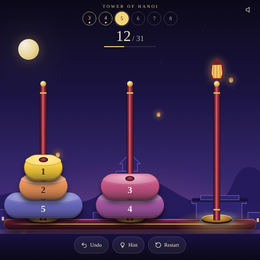
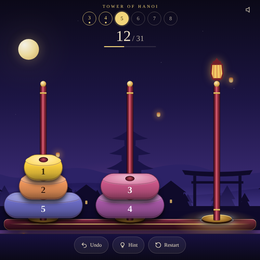
Tower of Hanoi: redraw the skyline as a real village
The old background was a few stray boxes (and the middle one looked broken). It is now three depth
layers with a pagoda as the landmark, a torii, pitched-roof houses, pines and mist, centred so the
phone crop keeps it, with small lit windows that no longer peek out from behind the base.

Claude-Session: https://claude.ai/code/session_016v15ucP2T6zEZ4FJg5VXMC

diff --git a/games/tower_of_hanoi.html b/games/tower_of_hanoi.html
@@ -13,7 +13,7 @@ html,body{height:100%;background:var(--ink);color:var(--paper);font-family:"Iowa
 #app{height:100%;height:100dvh;display:flex;flex-direction:column;position:relative;overflow:hidden;background:radial-gradient(70% 38% at 50% 88%,#9a4a7a66 0%,#0000 70%),linear-gradient(#0b0918 0%,#1c1544 38%,#3a2a73 72%,#6a3f86 100%);user-select:none;-webkit-user-select:none}
 .stars{position:absolute;inset:0;background-image:radial-gradient(1.5px 1.5px at 12% 18%,#fff9,#0000),radial-gradient(1px 1px at 78% 12%,#fff8,#0000),radial-gradient(1.5px 1.5px at 90% 34%,#fff7,#0000),radial-gradient(1px 1px at 30% 8%,#fff8,#0000),radial-gradient(1px 1px at 6% 44%,#fff6,#0000),radial-gradient(1.5px 1.5px at 62% 24%,#fff6,#0000)}
 .moon{position:absolute;left:7%;top:max(15%,118px);width:clamp(46px,8vmin,84px);aspect-ratio:1;border-radius:50%;background:radial-gradient(circle at 30% 28%,#fffdf0,#f6e3a1 52%,#d9b765);box-shadow:0 0 30px 8px #f2d57a30,0 0 120px 40px #f2d57a14;opacity:.95;pointer-events:none}
-.temple{position:absolute;left:0;right:0;bottom:92px;height:34%;opacity:.95;pointer-events:none;width:100%}
+.temple{position:absolute;left:0;right:0;bottom:92px;height:42%;pointer-events:none;width:100%}
 .fly{position:absolute;bottom:-30px;width:var(--s);height:calc(var(--s)*1.25);border-radius:30% 30% 40% 40%;background:radial-gradient(circle at 50% 70%,#fff3b0,#ffb84a 55%,#c0432a);box-shadow:0 0 calc(var(--s)*1.4) calc(var(--s)*.5) #ffb84a66;opacity:0;pointer-events:none;animation:fly var(--d) linear infinite;animation-delay:var(--w)}
 @keyframes fly{0%{transform:translate(0,0);opacity:0}12%{opacity:.85}85%{opacity:.7}100%{transform:translate(var(--x),-92vh);opacity:0}}
 .mist{position:absolute;left:0;right:0;bottom:92px;height:120px;background:linear-gradient(#0000,#5a4aa855 65%,#0000);pointer-events:none}
@@ -111,15 +111,7 @@ header{position:relative;display:flex;flex-direction:column;align-items:center;g
 <div class="stars"></div><div class="moon"></div>
 <i class="fly" style="left:8%;--s:9px;--d:34s;--w:-4s;--x:30px"></i><i class="fly" style="left:23%;--s:12px;--d:44s;--w:-20s;--x:-26px"></i><i class="fly" style="left:41%;--s:7px;--d:38s;--w:-12s;--x:18px"></i><i class="fly" style="left:63%;--s:11px;--d:48s;--w:-30s;--x:-34px"></i><i class="fly" style="left:78%;--s:8px;--d:36s;--w:-8s;--x:22px"></i><i class="fly" style="left:90%;--s:13px;--d:52s;--w:-40s;--x:-20px"></i>
 <div class="mist"></div>
-<svg class="temple" viewBox="0 0 400 120" preserveAspectRatio="xMidYMax slice" aria-hidden="true">
-<path d="M0 120V84q40-26 90-8t80-14 90 6 80-12 60 14v50z" fill="#241a5a"/>
-<g fill="#2e2470" stroke="#7a68c8" stroke-width=".7">
-<path d="M20 120V92h30V120z"/><path d="M92 120V88h-6l14-9 14 9h-6V120z"/>
-<path d="M150 120V96h8l-2-6 4-3h60l4 3-2 6h8V120z"/>
-<path d="M168 90V74h-10q12-3 16-12h22q4 9 16 12h-10V90z"/><path d="M178 62V50h-8q10-3 12-10h16q2 7 12 10h-8V62z"/><path d="M190 40V30h-4l14-14 14 14h-4V40z"/>
-<path d="M290 120V84h-6v-5h74v5h-6V120z"/><path d="M286 79h72" stroke="#18113a" stroke-width="5" stroke-linecap="round"/><path d="M296 79v-6h52v6z"/>
-<path d="M360 120V96h30v24z"/></g>
-<g fill="#ffcf70"><rect x="193" y="104" width="3" height="5"/><rect x="204" y="104" width="3" height="5"/><rect x="198" y="66" width="3" height="4"/><rect x="100" y="100" width="3" height="5"/><rect x="372" y="104" width="3" height="5"/><rect x="26" y="102" width="3" height="5"/></g></svg>
+<svg class="temple" viewBox="0 0 800 200" preserveAspectRatio="xMidYMax slice" aria-hidden="true"><defs><linearGradient id="mistA" x1="0" y1="0" x2="0" y2="1"><stop offset="0" stop-color="#6a58c0" stop-opacity="0"/><stop offset="1" stop-color="#6a58c0" stop-opacity=".35"/></linearGradient><linearGradient id="mistB" x1="0" y1="0" x2="0" y2="1"><stop offset="0" stop-color="#7a68d0" stop-opacity="0"/><stop offset="1" stop-color="#7a68d0" stop-opacity=".28"/></linearGradient></defs><path d="M0 200V120C60 96 110 82 170 100S270 70 340 92 460 60 540 88 680 70 800 96V200Z" fill="#2c2266"/><path d="M0 200V150C80 128 140 140 220 124S360 110 450 130 620 112 700 126 780 120 800 124V200Z" fill="#231a5a"/><rect x="0" y="120" width="800" height="80" fill="url(#mistA)"/><rect x="357.5" y="154.5" width="85.0" height="7.5" fill="#1a1347"/><rect x="368.75" y="138.25" width="62.5" height="16.25" fill="#1a1347"/><path d="M346.2 142.0C358.8 139.5 368.8 132.0 377.5 125.8L422.5 125.8C431.2 132.0 441.2 139.5 453.8 142.0C437.5 147.0 362.5 147.0 346.2 142.0Z" fill="#1a1347"/><rect x="374.0" y="110.75" width="52.0" height="16.25" fill="#1a1347"/><path d="M351.5 114.5C364.0 112.0 374.0 104.5 382.8 98.2L417.2 98.2C426.0 104.5 436.0 112.0 448.5 114.5C432.2 119.5 367.8 119.5 351.5 114.5Z" fill="#1a1347"/><rect x="379.25" y="83.25" width="41.5" height="16.25" fill="#1a1347"/><path d="M356.8 87.0C369.2 84.5 379.2 77.0 388.0 70.8L412.0 70.8C420.8 77.0 430.8 84.5 443.2 87.0C427.0 92.0 373.0 92.0 356.8 87.0Z" fill="#1a1347"/><rect x="384.5" y="55.75" width="31.0" height="16.25" fill="#1a1347"/><path d="M362.0 59.5C374.5 57.0 384.5 49.5 393.2 43.2L406.8 43.2C415.5 49.5 425.5 57.0 438.0 59.5C421.8 64.5 378.2 64.5 362.0 59.5Z" fill="#1a1347"/><rect x="389.75" y="28.25" width="20.5" height="16.25" fill="#1a1347"/><path d="M367.2 32.0C379.8 29.5 389.8 22.0 398.5 15.8L401.5 15.8C410.2 22.0 420.2 29.5 432.8 32.0C416.5 37.0 383.5 37.0 367.2 32.0Z" fill="#1a1347"/><rect x="398.5" y="-15.5" width="3.0" height="35.0" fill="#1a1347"/><rect x="394.375" y="9.5" width="11.25" height="2.5" rx="1" fill="#1a1347"/><rect x="394.375" y="3.25" width="11.25" height="2.5" rx="1" fill="#1a1347"/><rect x="394.375" y="-3.0" width="11.25" height="2.5" rx="1" fill="#1a1347"/><rect x="394.375" y="-9.25" width="11.25" height="2.5" rx="1" fill="#1a1347"/><circle cx="400" cy="-18.0" r="2.75" fill="#1a1347"/><path d="M300 126L312.16 146.9L306.84 146.9L315.2 164L284.8 164L293.16 146.9L287.84 146.9Z" fill="#1a1347"/><path d="M318 134L327.6 150.5L323.4 150.5L330.0 164L306.0 164L312.6 150.5L308.4 150.5Z" fill="#1a1347"/><path d="M336 126L348.16 146.9L342.84 146.9L351.2 164L320.8 164L329.16 146.9L323.84 146.9Z" fill="#1a1347"/><path d="M470 118L484.72 143.3L478.28 143.3L488.4 164L451.6 164L461.72 143.3L455.28 143.3Z" fill="#1a1347"/><path d="M488 134L497.6 150.5L493.4 150.5L500.0 164L476.0 164L482.6 150.5L478.4 150.5Z" fill="#1a1347"/><path d="M506 134L515.6 150.5L511.4 150.5L518.0 164L494.0 164L500.6 150.5L496.4 150.5Z" fill="#1a1347"/><path d="M250 118L264.72 143.3L258.28 143.3L268.4 164L231.6 164L241.72 143.3L235.28 143.3Z" fill="#1a1347"/><path d="M268 134L277.6 150.5L273.4 150.5L280.0 164L256.0 164L262.6 150.5L258.4 150.5Z" fill="#1a1347"/><path d="M560 126L572.16 146.9L566.84 146.9L575.2 164L544.8 164L553.16 146.9L547.84 146.9Z" fill="#1a1347"/><path d="M578 118L592.72 143.3L586.28 143.3L596.4 164L559.6 164L569.72 143.3L563.28 143.3Z" fill="#1a1347"/><path d="M150 134L159.6 150.5L155.4 150.5L162.0 164L138.0 164L144.6 150.5L140.4 150.5Z" fill="#1a1347"/><path d="M170 118L184.72 143.3L178.28 143.3L188.4 164L151.6 164L161.72 143.3L155.28 143.3Z" fill="#1a1347"/><path d="M650 134L659.6 150.5L655.4 150.5L662.0 164L638.0 164L644.6 150.5L640.4 150.5Z" fill="#1a1347"/><path d="M668 134L677.6 150.5L673.4 150.5L680.0 164L656.0 164L662.6 150.5L658.4 150.5Z" fill="#1a1347"/><rect x="0" y="120" width="800" height="50" fill="url(#mistB)"/><rect x="515.8" y="100.2" width="5.44" height="57.8" fill="#0f0a2a"/><rect x="598.76" y="100.2" width="5.44" height="57.8" fill="#0f0a2a"/><path d="M500.49999999999994 98.5Q560 105.30000000000001 619.5 98.5L624.6 90.0Q560 96.80000000000001 495.4 90.0Z" fill="#0f0a2a"/><rect x="512.4" y="110.4" width="95.19999999999999" height="4.42" fill="#0f0a2a"/><rect x="236" y="126" width="54" height="32" fill="#0f0a2a"/><path d="M231 127L263.0 102.48L295 127Z" fill="#0f0a2a"/><rect x="300" y="134" width="40" height="24" fill="#0f0a2a"/><path d="M295 135L320.0 116.36L345 135Z" fill="#0f0a2a"/><rect x="452" y="130" width="46" height="28" fill="#0f0a2a"/><path d="M447 131L475.0 109.42L503 131Z" fill="#0f0a2a"/><rect x="640" y="124" width="58" height="34" fill="#0f0a2a"/><path d="M635 125L669.0 99.01L703 125Z" fill="#0f0a2a"/><rect x="110" y="128" width="52" height="30" fill="#0f0a2a"/><path d="M105 129L136.0 105.95L167 129Z" fill="#0f0a2a"/><rect x="40" y="132" width="44" height="26" fill="#0f0a2a"/><path d="M35 133L62.0 112.89L89 133Z" fill="#0f0a2a"/><rect x="720" y="128" width="50" height="30" fill="#0f0a2a"/><path d="M715 129L745.0 105.95L775 129Z" fill="#0f0a2a"/><path d="M214 132L222.96 147.4L219.04 147.4L225.2 160L202.8 160L208.96 147.4L205.04 147.4Z" fill="#0f0a2a"/><path d="M292 126L302.88 144.7L298.12 144.7L305.6 160L278.4 160L285.88 144.7L281.12 144.7Z" fill="#0f0a2a"/><path d="M340 126L350.88 144.7L346.12 144.7L353.6 160L326.4 160L333.88 144.7L329.12 144.7Z" fill="#0f0a2a"/><path d="M430 132L438.96 147.4L435.04 147.4L441.2 160L418.8 160L424.96 147.4L421.04 147.4Z" fill="#0f0a2a"/><path d="M500 132L508.96 147.4L505.04 147.4L511.2 160L488.8 160L494.96 147.4L491.04 147.4Z" fill="#0f0a2a"/><path d="M610 132L618.96 147.4L615.04 147.4L621.2 160L598.8 160L604.96 147.4L601.04 147.4Z" fill="#0f0a2a"/><path d="M700 120L712.8 142.0L707.2 142.0L716.0 160L684.0 160L692.8 142.0L687.2 142.0Z" fill="#0f0a2a"/><path d="M90 126L100.88 144.7L96.12 144.7L103.6 160L76.4 160L83.88 144.7L79.12 144.7Z" fill="#0f0a2a"/><path d="M20 132L28.96 147.4L25.04 147.4L31.200000000000003 160L8.799999999999999 160L14.96 147.4L11.04 147.4Z" fill="#0f0a2a"/><path d="M770 120L782.8 142.0L777.2 142.0L786.0 160L754.0 160L762.8 142.0L757.2 142.0Z" fill="#0f0a2a"/><rect x="0" y="156" width="800" height="60" fill="#0f0a2a"/><rect x="397.2" y="142.0" width="5.5" height="8.8" rx="1" fill="#ffcf70" opacity=".85"/><rect x="397.2" y="114.5" width="5.5" height="8.8" rx="1" fill="#ffcf70" opacity=".85"/><rect x="397.2" y="87.0" width="5.5" height="8.8" rx="1" fill="#ffcf70" opacity=".85"/><rect x="397.2" y="59.5" width="5.5" height="8.8" rx="1" fill="#ffcf70" opacity=".85"/><rect x="397.2" y="32.0" width="5.5" height="8.8" rx="1" fill="#ffcf70" opacity=".85"/><rect x="261.0" y="142.0" width="4" height="6.5" rx="1" fill="#ffcf70" opacity=".75"/><rect x="318.0" y="146.0" width="4" height="6.5" rx="1" fill="#ffcf70" opacity=".75"/><rect x="473.0" y="144.0" width="4" height="6.5" rx="1" fill="#ffcf70" opacity=".75"/><rect x="667.0" y="141.0" width="4" height="6.5" rx="1" fill="#ffcf70" opacity=".75"/><rect x="134.0" y="143.0" width="4" height="6.5" rx="1" fill="#ffcf70" opacity=".75"/><rect x="60.0" y="145.0" width="4" height="6.5" rx="1" fill="#ffcf70" opacity=".75"/><rect x="743.0" y="143.0" width="4" height="6.5" rx="1" fill="#ffcf70" opacity=".75"/></svg>
 <header>
 <div class="title">Tower of Hanoi</div>
 <div class="levels" id="levels" role="group" aria-label="Number of discs"></div>
